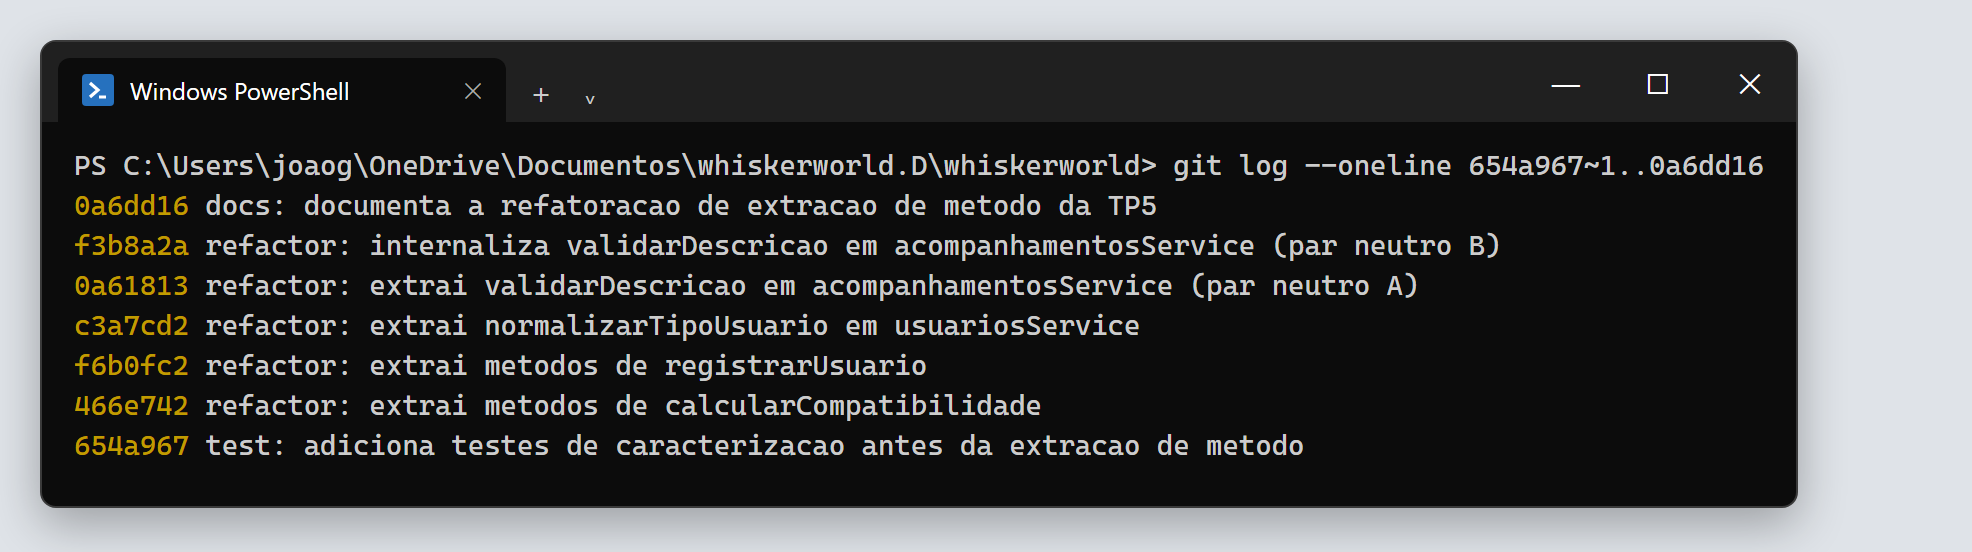
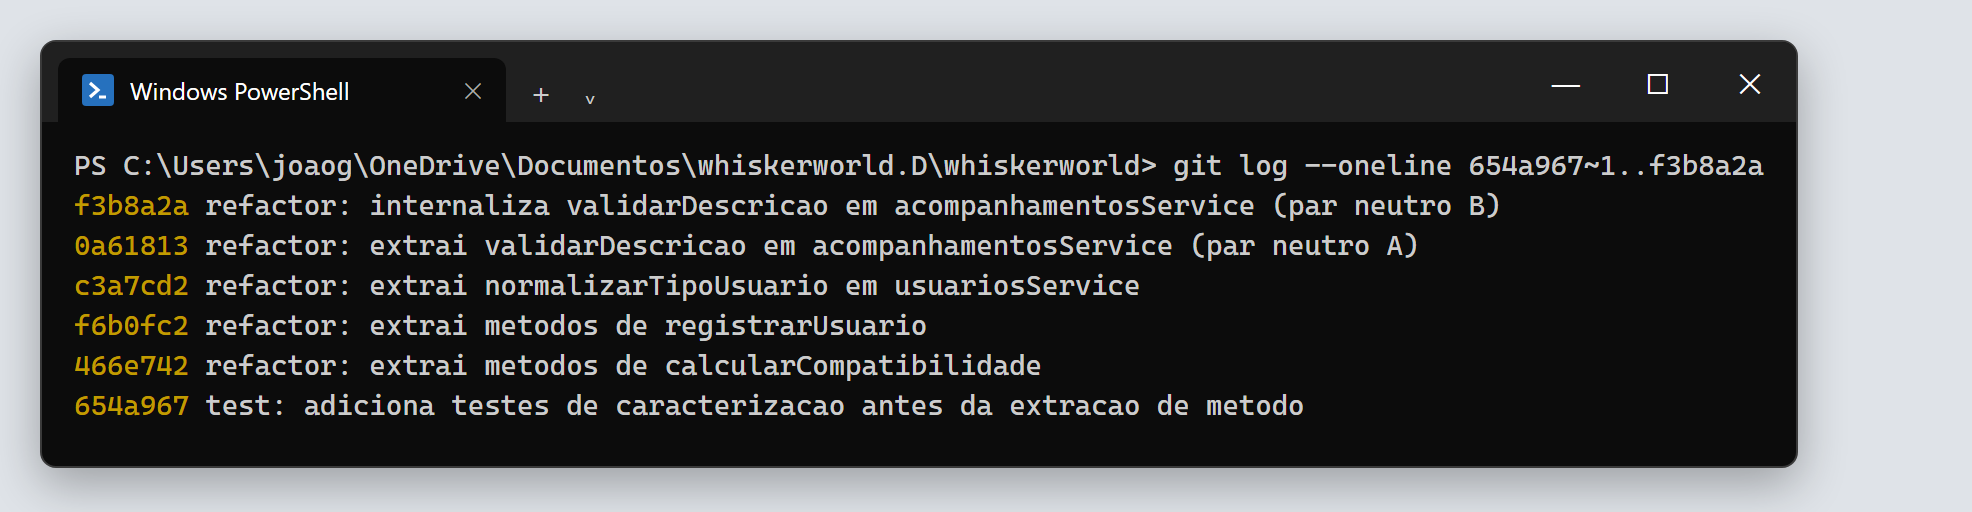
docs: remove referencias ao roteiro de demonstracao
O roteiro da apresentacao fica apenas local (fora do controle de versao).
O gerador de prints passa a mostrar somente os commits da refatoracao.

diff --git a/docs/tp5-refatoracao/extracao-de-metodo/README.md b/docs/tp5-refatoracao/extracao-de-metodo/README.md
@@ -12,7 +12,6 @@ Parte da **TP5 – Refatoração** do Whiskerworld. Este diretório reúne tudo 
 | 2 | [02-refatoracoes-planejadas.md](02-refatoracoes-planejadas.md) | Refatorações **planejadas**: justificativa e código antes/depois |
 | 3 | [03-refatoracao-oportunista.md](03-refatoracao-oportunista.md) | Refatoração **oportunista**, feita durante outra refatoração |
 | 4 | [04-par-neutro-extract-inline.md](04-par-neutro-extract-inline.md) | Par **A + B** (Extract Method + Inline Method) que se anulam |
-| 5 | [05-demonstracao-em-sala.md](05-demonstracao-em-sala.md) | Roteiro da demonstração de que o comportamento não mudou |
 | — | [demonstracao/](demonstracao/) | Script que compara as saídas antes e depois |
 | — | [demonstracao/gerar-prints/](demonstracao/gerar-prints/) | Script que gera os prints a partir da saída real dos comandos |
 | — | [evidencias/prints/](evidencias/prints/) | Prints do terminal (testes, hashes, diffs e par neutro) |

diff --git a/docs/tp5-refatoracao/README.md b/docs/tp5-refatoracao/README.md
@@ -2,7 +2,7 @@
 
 Refatoração é a modificação da estrutura interna do software **sem alterar seu comportamento observável**. Nesta etapa, aplicamos quatro refatorações do catálogo de Martin Fowler ao Whiskerworld, tomando como referência o [capítulo 9 de *Engenharia de Software Moderna*](https://engsoftmoderna.info/cap9.html).
 
-Cada refatoração tem sua própria pasta, com justificativa, código antes/depois, *code smells*, exemplos planejados e oportunistas, par neutro A/B e roteiro de demonstração.
+Cada refatoração tem sua própria pasta, com justificativa, código antes/depois, *code smells*, exemplos planejados e oportunistas e par neutro A/B.
 
 | # | Refatoração | Pasta |
 |---|---|---|
